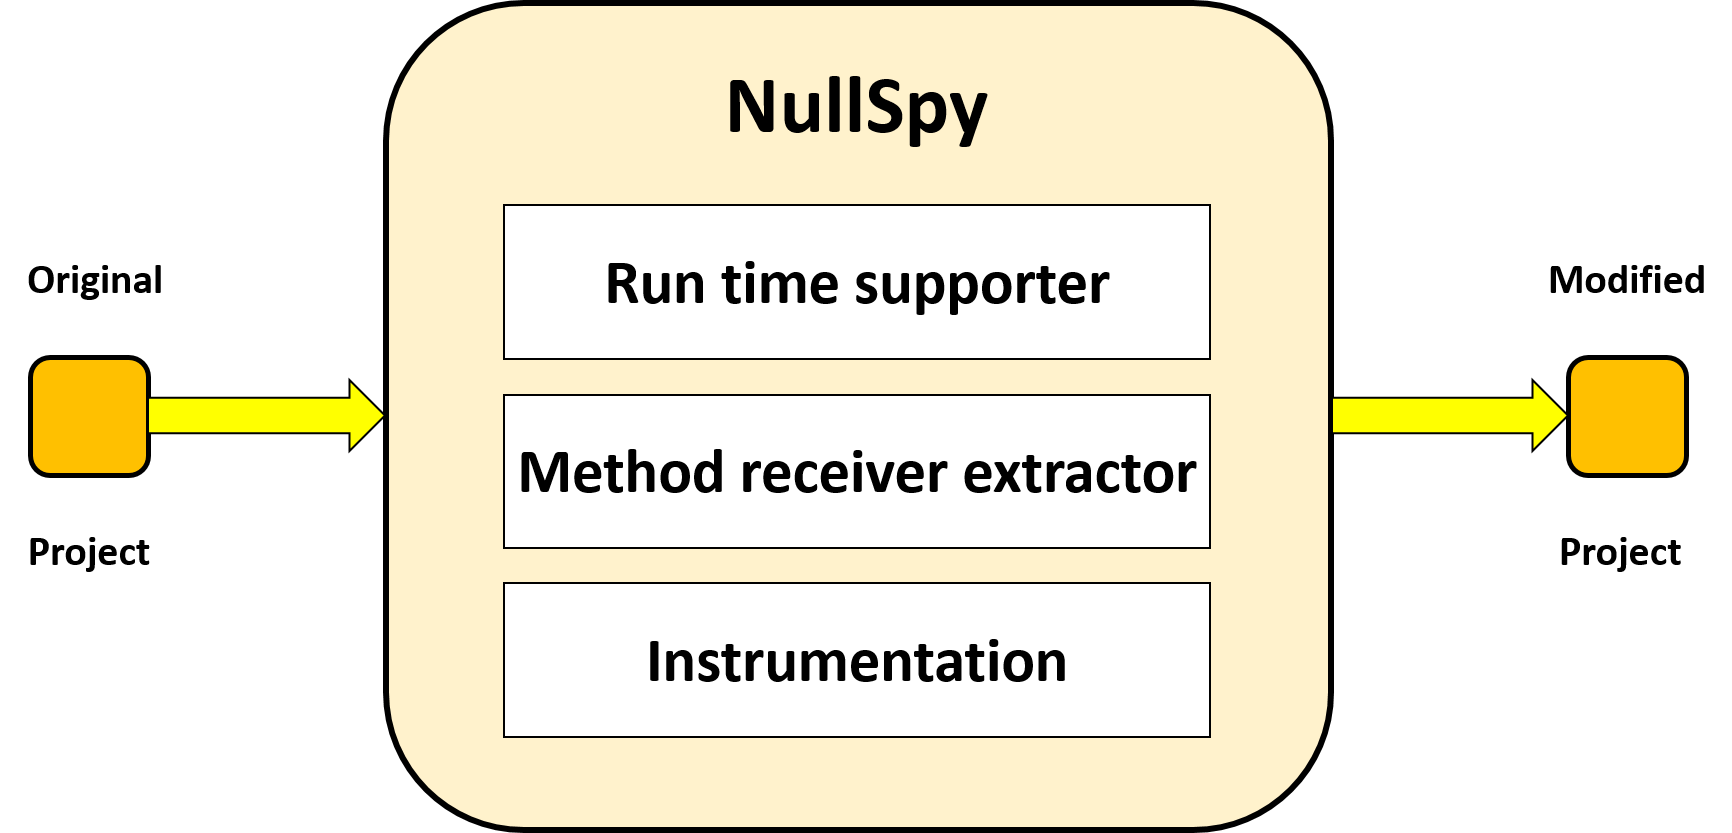
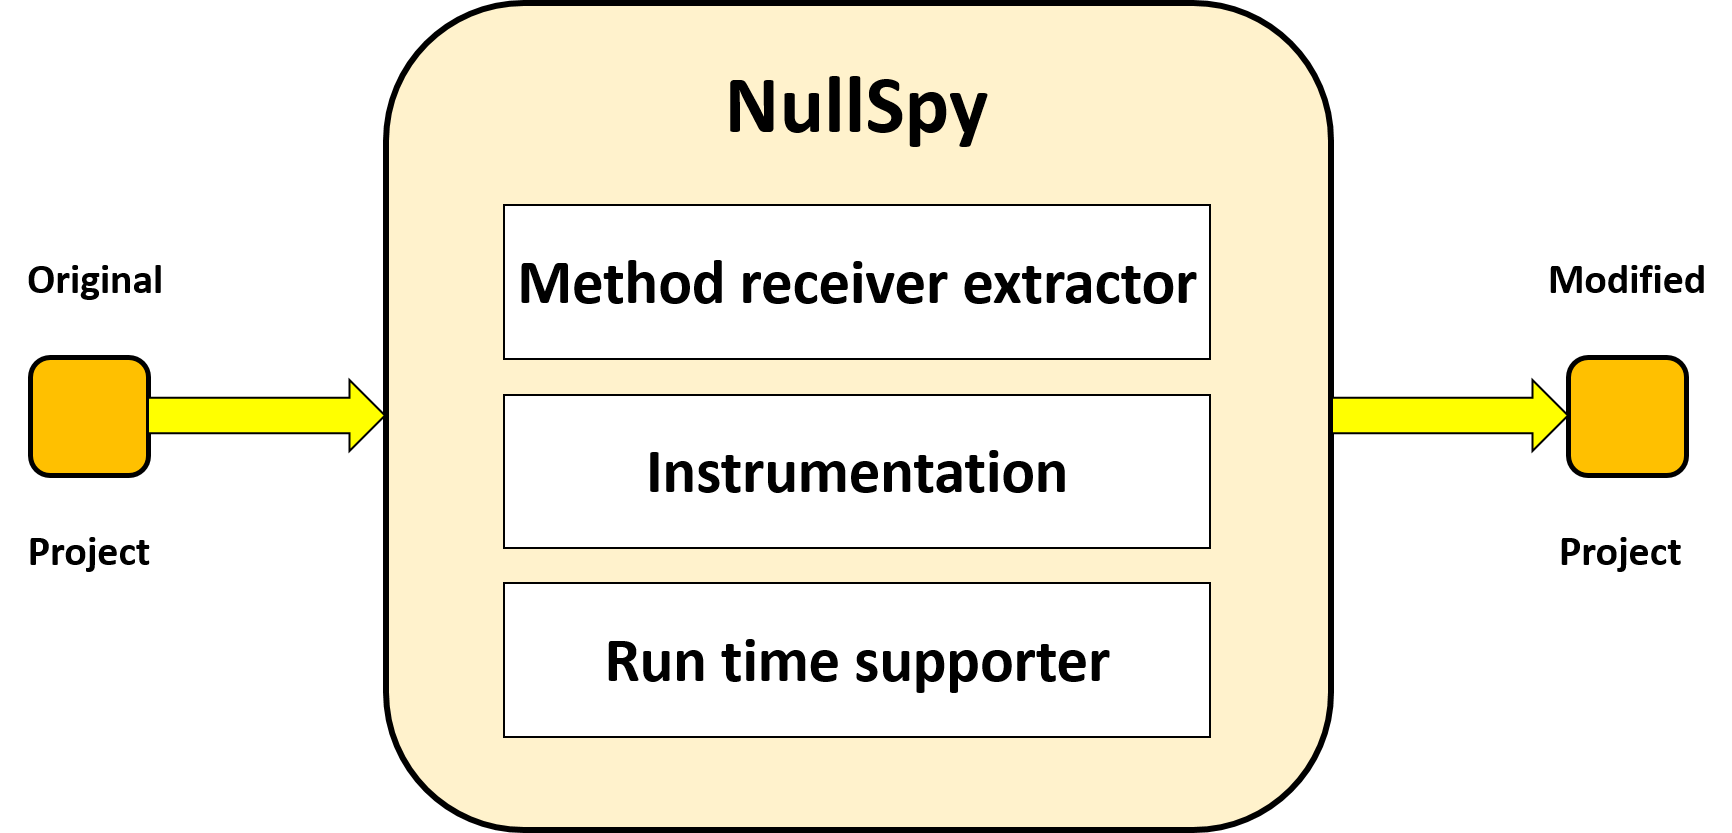
part of boris corrections done

Changed region(s): [[0.2806, 0.5306, 0.6859, 0.593], [0.2806, 0.3121, 0.6859, 0.3745], [0.343, 0.7491, 0.6547, 0.8427]]

diff --git a/bsc-thesis/thesis.tex b/bsc-thesis/thesis.tex
@@ -163,7 +163,7 @@ Underneath the instructions we find the \textit{line number table}. It maps the 
 
 \section{Javassist}
 \label{sec:javassist}
-\textit{Javassist} or \textit{Java Programming Assistant}\footnote{\url{http://jboss-javassist.github.io/javassist/}}~\cite{Chib00}~\cite{Chib03}, a subproject of Jboss, is a \ugh{class}\lt{\url{http://jboss-javassist.github.io/javassist/} describes Javassist as a class library. delete class and just use library?} library which enables manipulation of the Java bytecode. Since 1999 it is used as an engineering toolkit in a broad domain, and is still being extended by Shigeru Chiba. It enables developers to manipulate Java bytecode in a simplified way. Examples of this manipulation include defining a new class at runtime or modifying a class file when it is loaded by the JVM. All manipulations are performed at load-time through a provided class loader. A tutorial for using Javassist\footnote{\url{http://jboss-javassist.github.io/javassist/tutorial/tutorial.html}} is available online and was used as a starting point for this work.
+\textit{Javassist} or \textit{Java Programming Assistant}\footnote{\url{http://jboss-javassist.github.io/javassist/}}~\cite{Chib00}~\cite{Chib03}, a subproject of Jboss, is a library which enables manipulation of the Java bytecode. Since 1999 it is used as an engineering toolkit in a broad domain, and is still being extended by Shigeru Chiba. It enables developers to manipulate Java bytecode in a simplified way. Examples of this manipulation include defining a new class at runtime or modifying a class file when it is loaded by the JVM. All manipulations are performed at load-time through a provided class loader. A tutorial for using Javassist\footnote{\url{http://jboss-javassist.github.io/javassist/tutorial/tutorial.html}} is available online and was used as a starting point for this work.
 
 \begin{figure}[H]
 \centering
@@ -300,13 +300,15 @@ public void itemStateChanged(ItemEvent e) {
 JAD is in no way a dependency of NullSpy but it was a big help during the implementation phase since after running NullSpy on a project only the modified bytecode is available. The use of JAD is for the sake of debugging Nullspy; to check whether the modification by Javassist, \ie inserting source code, was successful. Another way to check the result for correctness is looking at bytecode itself but that would have taken a lot more effort and time.
 
 \chapter{NullSpy}
-As explained in \charef{introduction}, this project is about providing the user with an additional stack trace containing the information on where the null is assigned to the variable that caused the \npe. \del{In short, the exact location of where a variable was assigned null will be revealed.} \ugh{We will use the term \mr to refer to the variable or object a method is invoked on and that caused the \npe}\brs{Put this where you first time use \mr, here it's completely void of context}.
+As explained in \charef{introduction}, this project is about providing the user with an additional stack trace containing the information on where the null is assigned to the variable that caused the \npe.
 
-\chg{Here}{In this chapter} we give a \del{short} overview of how we implementeddel{the core of} NullSpy. We will also address the challenges (\secref{challenges}) we encountered during the implementation as well as the limitations of the tool (\secref{limitations}).
+In this chapter we give an overview of how we implemented NullSpy. We will also address the challenges (\secref{challenges}) we encountered during the implementation as well as the limitations of the tool (\secref{limitations}).
 
 \section{High Level Overview}
 \label{sec:highLevelOverview}
-The general approach of NullSpy is to statically analyze a project and instrument the bytecode. We can take the three basic steps of NullSpy from \figref{highLevelOverview}: \textit{load, modify, store}. NullSpy is \del{not a GUI but} a console application which takes two parameters. The first argument \ins{to }NullSpy \del{needs} is the path to the \textit{bin}-folder\brs{not all projects neceserally have a bin folder, so you should say something like ``the folder containing the compiled class files '} of the original project and the second one is the destination where the \ugh{developer}\brs{do you mean user?} wants to store the modified project.
+The general approach of NullSpy is to statically analyze a project and instrument the bytecode. NullSpy is a console application which takes two parameters. The first argument to NullSpy is the path to the folder containing the compiled class files of the original project and the second one is the destination where the user wants to store the modified project.
+
+We provide the option to choose the destination is because in case the developer does not want to overwrite the original project with the modified one. This means that the updated bytecode can be stored in another location, keeping the original class files intact. Of course the original project can be replaced by the modified one too. But the developer has to think carefully about it because once replaced, the additional bytecode stays there and the execution time is slightly different than it was before. To get rid of the additional bytecode, the developer has to recompile the source code to get the original class files when needed. This has to be done every time when NullSpy is used on the project.
 
 \begin{figure}[H]
 \centering
@@ -315,31 +317,28 @@ The general approach of NullSpy is to statically analyze a project and instrumen
   \label{fig:highLevelOverview}
 \end{figure}
 
-\brs{move here the stuff from the paragraph before about the three steps. You talk abou the 3 steps, then about the console and parameters, then back to the 3 steps, stay on topic}Those three steps of NullSpy are described in \boxref{abstractSteps}\brs{why box? just use enumeration.}:
+NullSpy contains three basic steps which we can see in \figref{highLevelOverview}: \textit{load, modify, store}. Those three steps of NullSpy are described in \listref{abstractSteps}:
 
 \begin{figure}[H]
 \renewcommand\figurename{List}
 	\begin{boxedminipage}{\textwidth}
 \begin{enumerate}
 \itemsep8pt
-	\item Input: Load compiled class files of \ins{the }project \del{we wish for being able to track the null assignments }into NullSpy.
-	\item Modification: The modification part \del{contains the }deal\chg{ing}{s} with the bytecode instrumentation and adding modules to the project that \chg{handles}{supports} the inserted code.
-	\item Output: Store modified class files to the chosen \ins{output }folder.
+	\item Input: Load compiled class files of the project into NullSpy.
+	\item Modification: The modification part deals with the bytecode instrumentation and adding modules to the project that supports the inserted code.
+	\item Output: Store modified class files to the chosen output folder.
    \end{enumerate}
 	\end{boxedminipage}
 	\caption{NullSpy abstract steps.}
-	\label{box:abstractSteps}
+	\label{list:abstractSteps}
 \end{figure}
-
-\del{Once the project modification is done it is stored in a destination folder the user has chosen before.} We provide the option to choose the destination is because in case the developer does not want to overwrite the original project with the modified one. This means that the updated bytecode can be stored in another location, keeping the original class files intact. Of course the original project can be replaced by the modified one too. But the developer has to think carefully about it because once replaced, the additional bytecode stays there and the execution time is slightly different than it was before. To get rid of the additional bytecode, the developer has to recompile the source code to get the original class files when needed. This has to be done every time when NullSpy is used on the project.\brs{this belongs where you explain the parameters}
 
 \brs{missing from this section: how is loading done? how is storing done? seems trivial I know, but should be explained. ``Loading is done by traversing all the subfolders of the folder given as a parameter, and extracting all the .class files bla bla bla... Storing is done by recreating the structure from the source folder in the destination folder and storing the modified class files as explained in Subsection 2.2''} 
 
 \section{Low Level Overview}
 \label{sec:lowLevelOverview}
 
-\ugh{In this section we will focus on the second abstract step of NullSpy, namely the modification step.}\brs{what does second abstract step mean? just say we focus on the bytecode modification.}  \figref{modificationModules} shows that NullSpy contains three different modules in total. That means each class file of the loaded project will \chg{get in touch}{will be run through} with each of these modules. The first thing we do with the loaded class file is extracting data from its bytecode, then do \chg{some}{the} instrumentation and at the end \chg{adding a}{we add the} run time supporter module to the project.
-\brs{the order of the steps in the text does not mach the order in the picture, please update the picture}
+In this section we will focus on the bytecode modification. \figref{modificationModules} shows that NullSpy contains three different modules in total. That means each class file of the loaded project will will be run through with each of these modules. The first thing we do with the loaded class file is extracting data from its bytecode, then do the instrumentation and at the end we add the run time supporter module to the project.
 
 \begin{figure}[H]
 \centering
@@ -348,20 +347,20 @@ The general approach of NullSpy is to statically analyze a project and instrumen
   \label{fig:modificationModules}
 \end{figure}
 
-We will look at these modules \ins {in }more detail\del{ed} and explain what \chg{they are all about}{each one does}.
+We will look at these modules in more detail and explain what each one does.
 
 \subsection{\MR Data Collection}
 \label{subsec:methodReceiver}
-A big part of NullSpy is extracting information from bytecode. One of the item we are interested to get information \chg{from}{about} is the \mr. We use the term \mr to refer to variables on which methods are \chg{performed}{invoked, or whose fields are accessed}.\ugh{ A small example makes is easier to understand: The \mr in code \code{var.method()} is \code{var}}.
+A big part of NullSpy is extracting information from bytecode. One of the item we are interested to get information about is the \mr. We use the term \mr to refer to variables on which methods are invoked, or whose fields are accessed.\ugh{ A small example makes is easier to understand: The \mr in code \code{var.method()} is \code{var}}.
 
-We use the \ugh{class}\brs{I'm not sure what you mean by class library... are there method libraries or something?} library Javassist (\secref{javassist}) to extract data from bytecode. Unfortunately, Javassist does not provide the function\ins{ality} to directly get information about the \mr. \chg{What kind of}{The exact} information we need \chg{will be}{is}\brs{will be is future tense and I understand that the reader will read it in the future, but it's already listed now, and if the reader wants to skip ahead she can} listed later in this section. To put it another way, with Javassist we cannot\ins{ directly} extract the \mrs from bytecode. That is why we implemented our own algorithm to get the \mrs. The algorithm contains following steps:
+We use the library Javassist (\secref{javassist}) to extract data from bytecode. Unfortunately, Javassist does not provide the functionality to directly get information about the \mr. The exact information we need is listed later in this section. To put it another way, with Javassist we cannot directly extract the \mrs from bytecode. That is why we implemented our own algorithm to get the \mrs. The algorithm contains following steps:
 
 \begin{figure}[H]
 \renewcommand\figurename{Algorithm}
 	\begin{boxedminipage}{\textwidth}
 		\begin{enumerate}
 \itemsep8pt
-      \item Getting \ins{the }pc-interval of method invocation
+      \item Getting the pc-interval of method invocation
       \item Storing all possible \mr interval within the interval of step 1 into an ArrayList
 			\item Getting the number of parameters, the method invocation takes
 			\item Traversing back the ArrayList the amount of parameters obtained in step 3
@@ -383,7 +382,7 @@ protected void open(final DrawingView newDrawingView) {
 }
 \end{Java}
 
-We are only looking at line 6\brs{um... the example has only 5 lines of code...} in \coderef{methodReceiverAlgDemoCode}.
+We are only looking at line 3 in \coderef{methodReceiverAlgDemoCode}.
 
 \renewcommand\lstlistingname{Bytecode}
 \begin{JVMIS}[caption={Bytecode of \coderef{methodReceiverAlgDemoCode}.}, label={bytecode:methodReceiverAlgDemoBytecode}, breaklines=true]
@@ -414,15 +413,15 @@ protected void open(org.jhotdraw.framework.DrawingView newDrawingView);
 	\label{box:extractMethodReceiverExample}
 \end{figure}
 
-In step 1 we had \ugh{big troubles} getting the right interval of the \mr. By only statically analyzing the bytecode it is unapparent where \ins{exactly} the \mr is situated \del{exactly} in bytecode. \del{But} more about the challenges we encountered \ins{can be found }in \subsecref{methodReceiverDifficulties}.
+In step 1 we had troubles getting the right interval of the \mr. By only statically analyzing the bytecode it is unapparent where exactly the \mr is situated in bytecode. More about the challenges we encountered can be found in \subsecref{methodReceiverDifficulties}.
 
-Statically analyzing bytecode for \mr means looking for certain opcodes which matches the regex (Regular expression) \textit{``invoke.*"}. There are exactly five \chg{kinds of}{such} bytecode instruction\ins{s}: \textit{invokedynamic}, \textit{invokeinterface}, \textit{invokespecial}, \textit{invokestatic}, \textit{invokevirtual}. The invocation opcode \textit{invokedynamic} facilitates the dynamic\ins{ly}-typed languages\footnote{Language whose type checking is \del{usually} performed at runtime.} through dynamic method invocation. In our case it can be ignored because NullSpy only supports\ins{ java,} \chg{the}{a} \textit{static\ins{lly}-typed} language\footnote{Language whose type checking is performed at compile time.} \del{Java}.
+Statically analyzing bytecode for \mr means looking for certain opcodes which matches the regex (Regular expression) \textit{``invoke.*"}. There are exactly five such bytecode instructions: \textit{invokedynamic}, \textit{invokeinterface}, \textit{invokespecial}, \textit{invokestatic}, \textit{invokevirtual}. The invocation opcode \textit{invokedynamic} facilitates the dynamicly-typed languages\footnote{Language whose type checking is performed at runtime.} through dynamic method invocation. In our case it can be ignored because NullSpy only supports java, a \textit{staticlly-typed} language\footnote{Language whose type checking is performed at compile time.}.
 
-In case of the \textit{invokestatic} instruction we do not have a \mr \brs{why?}. That is why NullSpy treats it extraordinary \chg{like}{by} ignoring it completely or wrap\ins{ing} it as a \ugh{possible \mr when it is actually a parameter of a method invocation}\brs{this does not make sense to me. if it's a parameter it could be a \mr?}. \chg{In}{For} all other \chg{cases}{invocation bytecodes} we \del{normally }use \chg{the}{our} algorithm to get the \mr. 
+In case of the \textit{invokestatic} instruction we do not have a \mr \brs{why?}. That is why NullSpy treats it extraordinary by ignoring it completely or wraping it as a \ugh{possible \mr when it is actually a parameter of a method invocation}\brs{this does not make sense to me. if it's a parameter it could be a \mr?}. For all other invocation bytecodes we use our algorithm to get the \mr. 
 
 \brs{the algorithm is very poorly explained, i still have no idea how you get from pc-interval to any useful information}
 
-After getting the pc-interval of a \mr we gather data about it and store them in an external \textit{csv} file \ugh{due to performance and overhead minimization}\brs{what? why? performance as compared to what?}. The following list \chg{will list}{shows} the information which is stored about the \mr.
+After getting the pc-interval of a \mr we gather data about it and store them in an external \textit{csv} file due to overhead minimization. The following list shows the information which is stored about the \mr.
 
 \begin{figure}[H]
 \renewcommand\figurename{List}
@@ -451,14 +450,13 @@ We will talk about the purpose why these information about the \mr are needed la
 
 \subsection{Variable Data Collection}
 \label{subsec:variable}
-\ugh{Data about the \mrs plus information about the variables which are assigned an object are needed in NullSpy.} In \ins{the }section before we were looking for instructions which matches the regex \textit{``invoke.*''} for finding \mrs in bytecode. This time we are looking for \chg{following}{the} regexs \textit{``astore.*''} and \textit{``put.*''}. The former refers to local variable assignments and the latter to field assignments. \ugh{After finding one of the assignment NullSpy gathers data about the variable because NullSpy inserts bytecode right after the assignment which represents a method invocation that needs the gained data as parameters. The inserted bytecode represents a test method which tests whether the value assigned to the variable is null and store the gathered information about it}\brs{this is why we need the short overview at the beginning, than we would not need these half baked explanations here and there}. Unlike in getting information about the \mr in \subsecref{methodReceiver} the data about the variables are stored in a HashMap.
-
+\ugh{Data about the \mrs plus information about the variables which are assigned an object are needed in NullSpy.} In the section before we were looking for instructions which matches the regex \textit{``invoke.*''} for finding \mrs in bytecode. This time we are looking for the regexs \textit{``astore.*''} and \textit{``put.*''}. The former refers to local variable assignments and the latter to field assignments. \ugh{After finding one of the assignment NullSpy gathers data about the variable because NullSpy inserts bytecode right after the assignment which represents a method invocation that needs the gained data as parameters. The inserted bytecode represents a test method which tests whether the value assigned to the variable is null and store the gathered information about it}\brs{this is why we need the short overview at the beginning, than we would not need these half baked explanations here and there}. Unlike in getting information about the \mr in \subsecref{methodReceiver} the data about the variables are stored in a HashMap.
 
 In the next two subsections we will look at how those information about the assigned variables are extracted. Due to different variable types and the limitation of Javassist, the way of gathering information about the assignments is performed differently.
 
 \subsubsection{Local Variable}
 \label{subsubsec:localVariable}
-Unfortunately, Javassist does not provide any support for gaining information about local variables\ins{.} \chg{that}{This} is why \chg{getting}{to get} the needed data we had to understand how \ins{the} bytecode is constructed. At this point we \del{would like to} give a small bytecode introduction\brs{shouldn't this be in the technical background}.
+Unfortunately, Javassist does not provide any support for gaining information about local variables. This is why to get the needed data we had to understand how the bytecode is constructed. At this point we  give a small bytecode introduction\brs{shouldn't this be in the technical background?}\lt{thought this is more difficult to understand and always jumping is not comfortable}.
 
 \begin{figure}[H]
 \centering
@@ -467,7 +465,7 @@ Unfortunately, Javassist does not provide any support for gaining information ab
   \label{fig:localVarCreationBytecode}
 \end{figure}
 
-If a local variable is created, the value assigned to it is pushed onto the operand stack as we can see in \figref{localVarCreationBytecode}\footnote{Figure taken from \href{http://blog.jamesdbloom.com/JavaCodeToByteCode_PartOne.html}{blog.jamesdbloom.com}.}. With the bytecode instruction \textit{``astore.*"} the local variable is popped from the operand stack and stored into a local variable array slot. In which slot it is stored can be extracted from the instruction. Opcodes for storing local variables \chg{is}{are} composed of one, or in some cases two bytes. There are reserved \ugh{machine commands} for the first four local variables, index-linked from 0 to 3 and each of them contains one byte (astore\_0, astore\_1, astore\_2, astore\_3). If there is no slot number visible in the instruction, it indicates that the slot number is stored in the second byte from where it can be extracted. In addition to storing local variable loading it from the local variable array is possible too, but of course again only with the local variable slot number. \brs{no idea what this paragraph is about}
+If a local variable is created, the value assigned to it is pushed onto the operand stack as we can see in \figref{localVarCreationBytecode}\footnote{Figure taken from \href{http://blog.jamesdbloom.com/JavaCodeToByteCode_PartOne.html}{blog.jamesdbloom.com}.}. With the bytecode instruction \textit{``astore.*"} the local variable is popped from the operand stack and stored into a local variable array slot. In which slot it is stored can be extracted from the instruction. Opcodes for storing local variables are composed of one, or in some cases two bytes. There are reserved \ugh{machine commands} for the first four local variables, index-linked from 0 to 3 and each of them contains one byte (astore\_0, astore\_1, astore\_2, astore\_3). If there is no slot number visible in the instruction, it indicates that the slot number is stored in the second byte from where it can be extracted. In addition to storing local variable loading it from the local variable array is possible too, but of course again only with the local variable slot number. \brs{no idea what this paragraph is about}
 
 With this short introduction understanding the local variable table should be easier. Each method of a class file contains a local variable table (see \bytecoderef{localVarTable}) with which many information can be read out, \ie the lifespan of a local variable, what it is called, in which slot it is stored and what type it has.
 

diff --git a/bsc-thesis/preamble.tex b/bsc-thesis/preamble.tex
@@ -226,6 +226,7 @@
 \newcommand{\bytecoderef}[1]{\hyperref[{bytecode:#1}]{Bytecode~\ref*{bytecode:#1}}}
 \newcommand{\algref}[1]{\hyperref[{alg:#1}]{Algorithm~\ref*{alg:#1}}}
 \newcommand{\boxref}[1]{\hyperref[{box:#1}]{Box~\ref*{box:#1}}}
+\newcommand{\listref}[1]{\hyperref[{list:#1}]{List~\ref*{list:#1}}}
 
 %----------------------------------------------------------------------------
 
